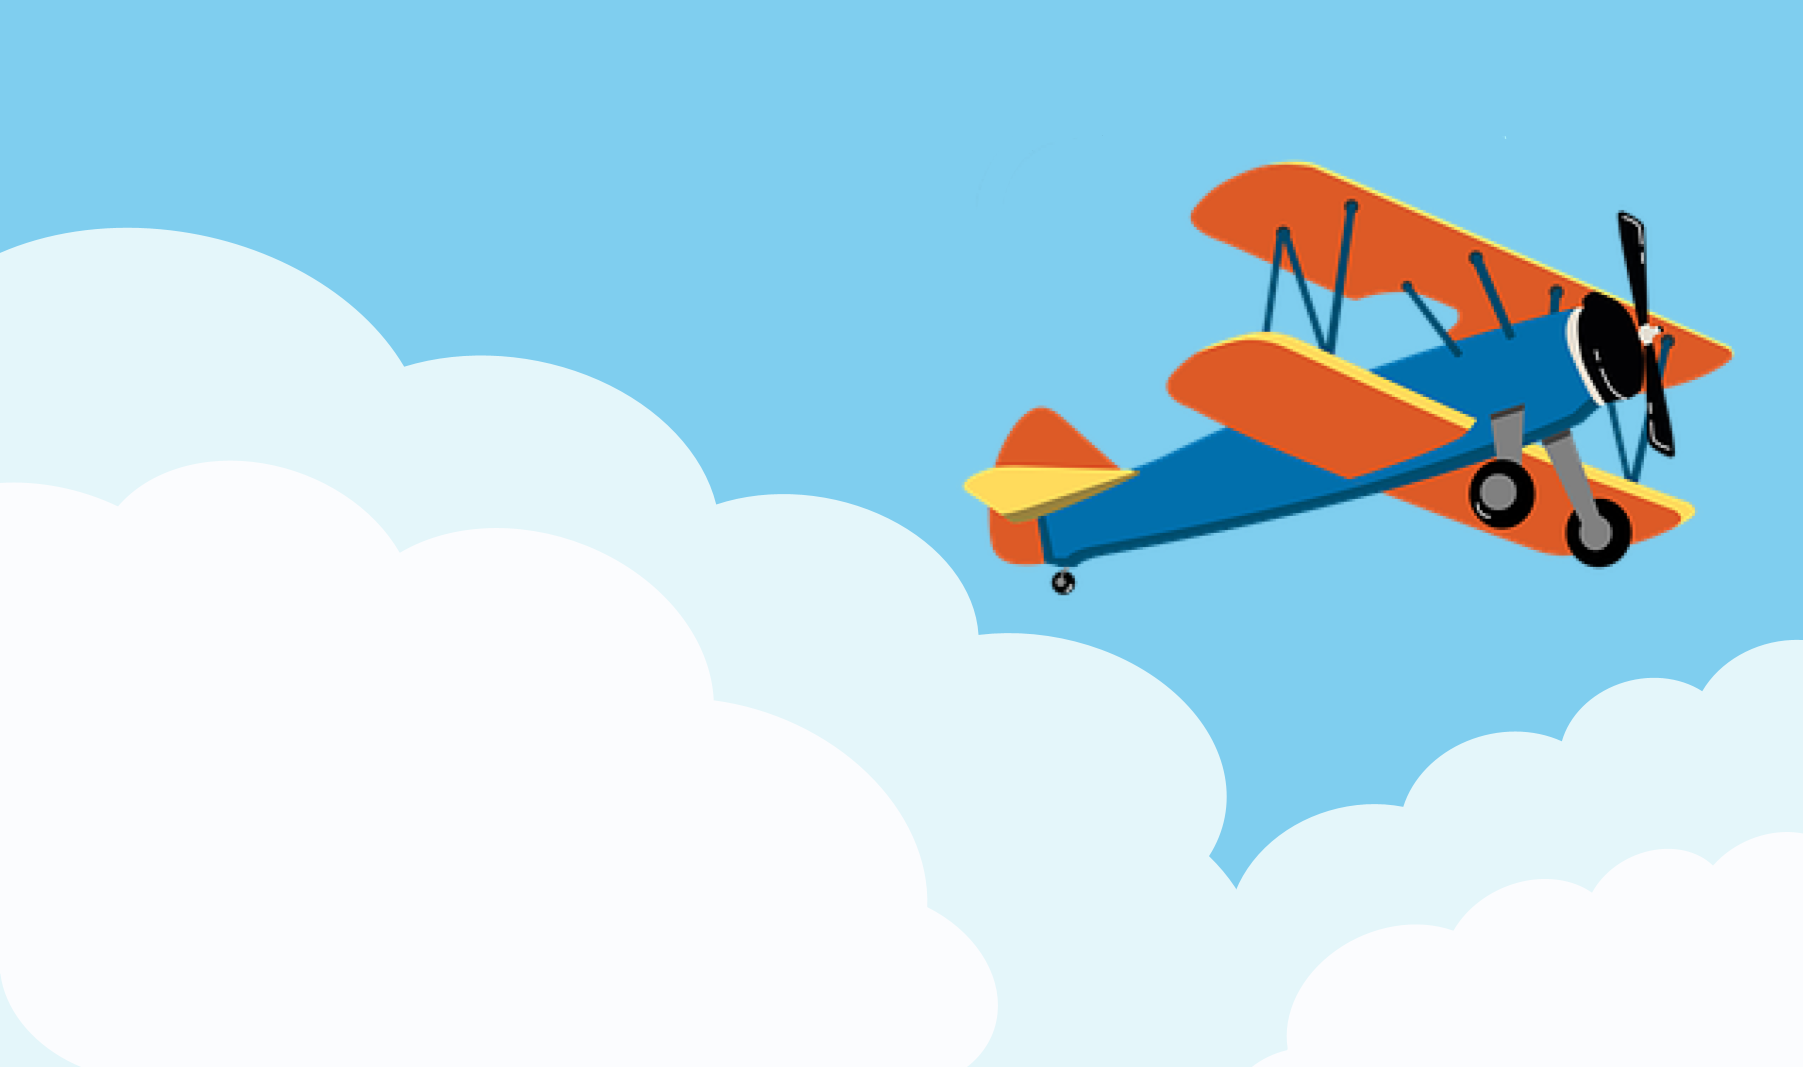
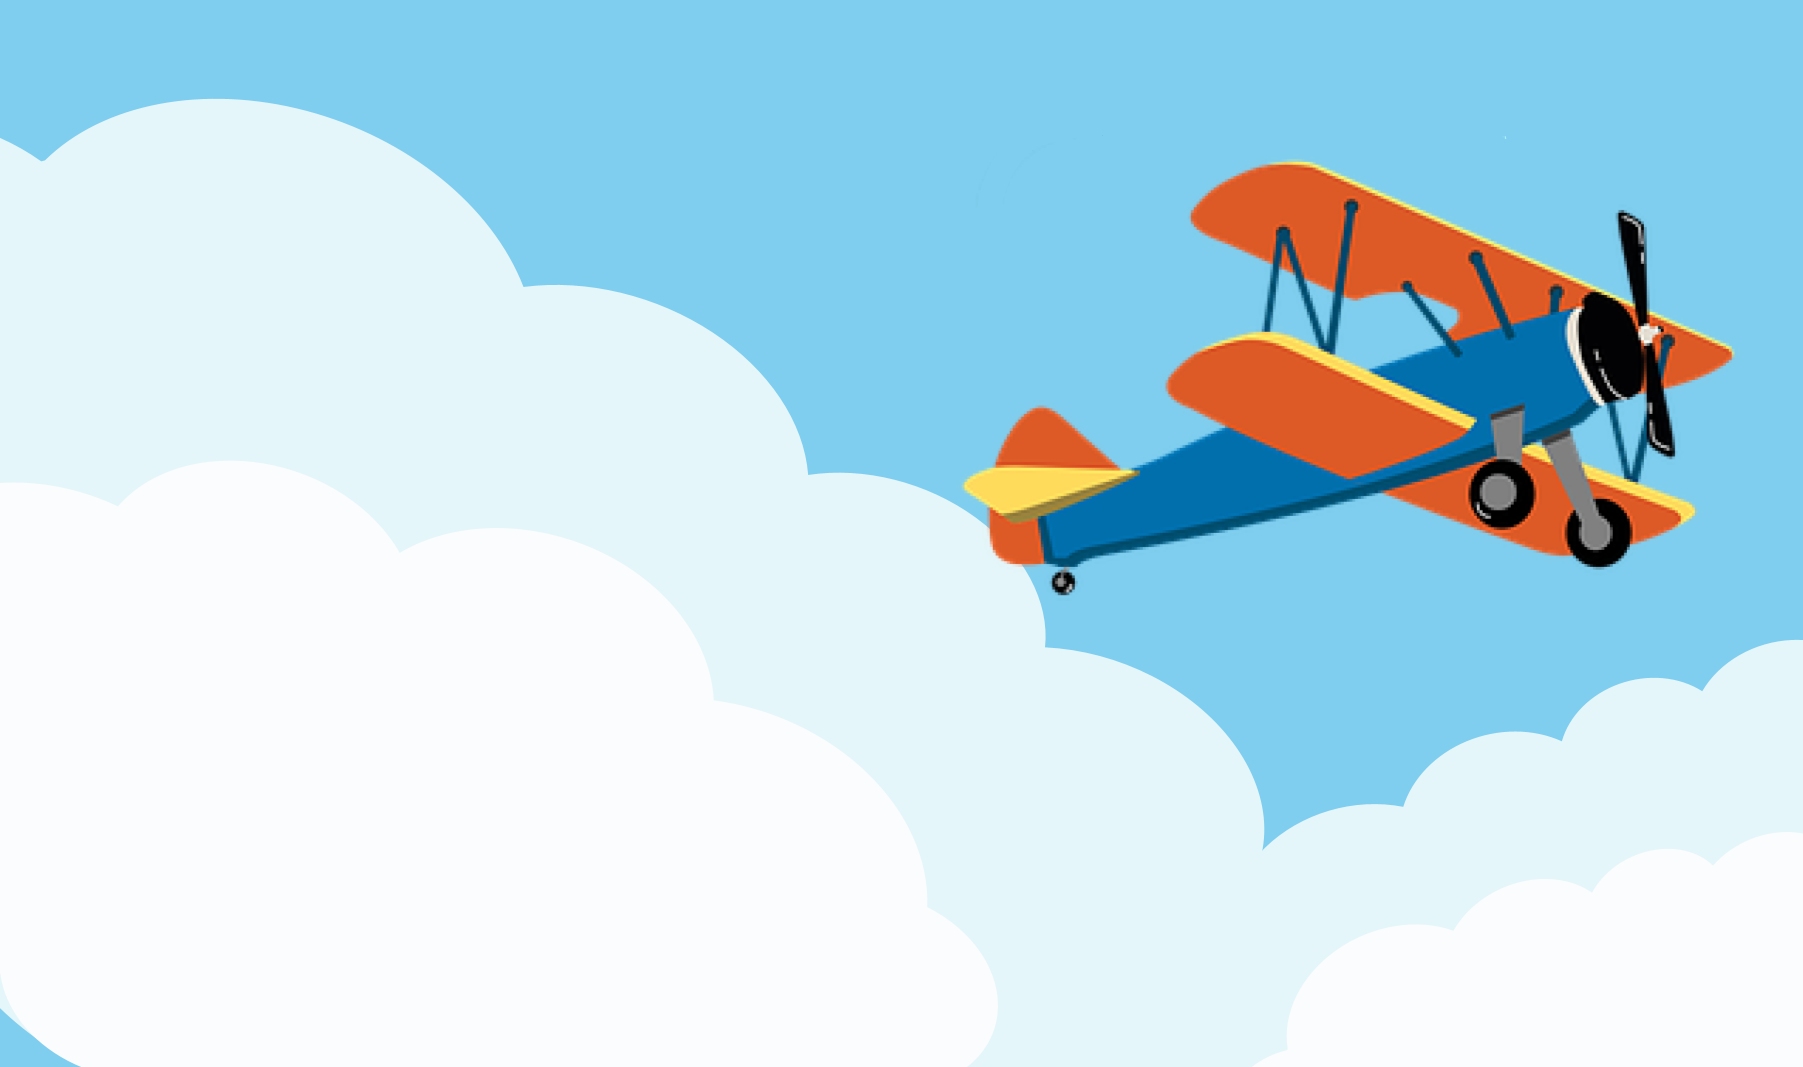
encore photo

Changed region(s): [[0.0, 0.0928, 0.6212, 0.6186], [0.6522, 0.6495, 0.7144, 0.8351], [0.0, 0.9588, 0.0621, 1.0]]

diff --git a/stylesheet.css b/stylesheet.css
@@ -1,6 +1,6 @@
 body{
     background-color: #E4F5FC;
-    background-image: url("images/fond_nuages.jpg") ;
+    background-image: url("images/fond_nuages.png") ;
     background-repeat: no-repeat;
     background-size: cover;
 }
